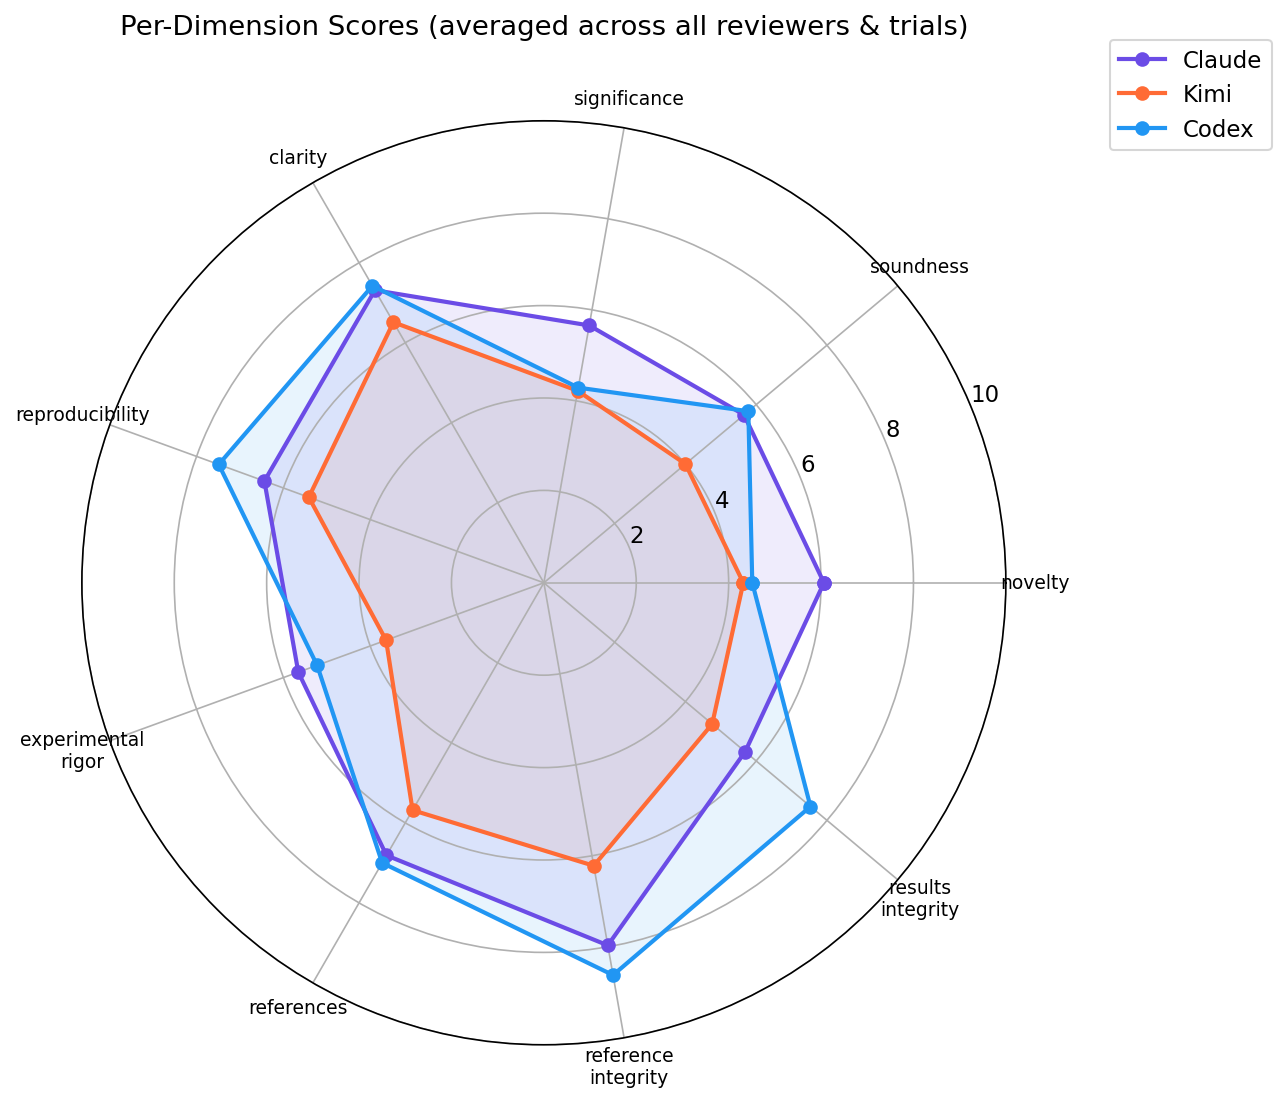
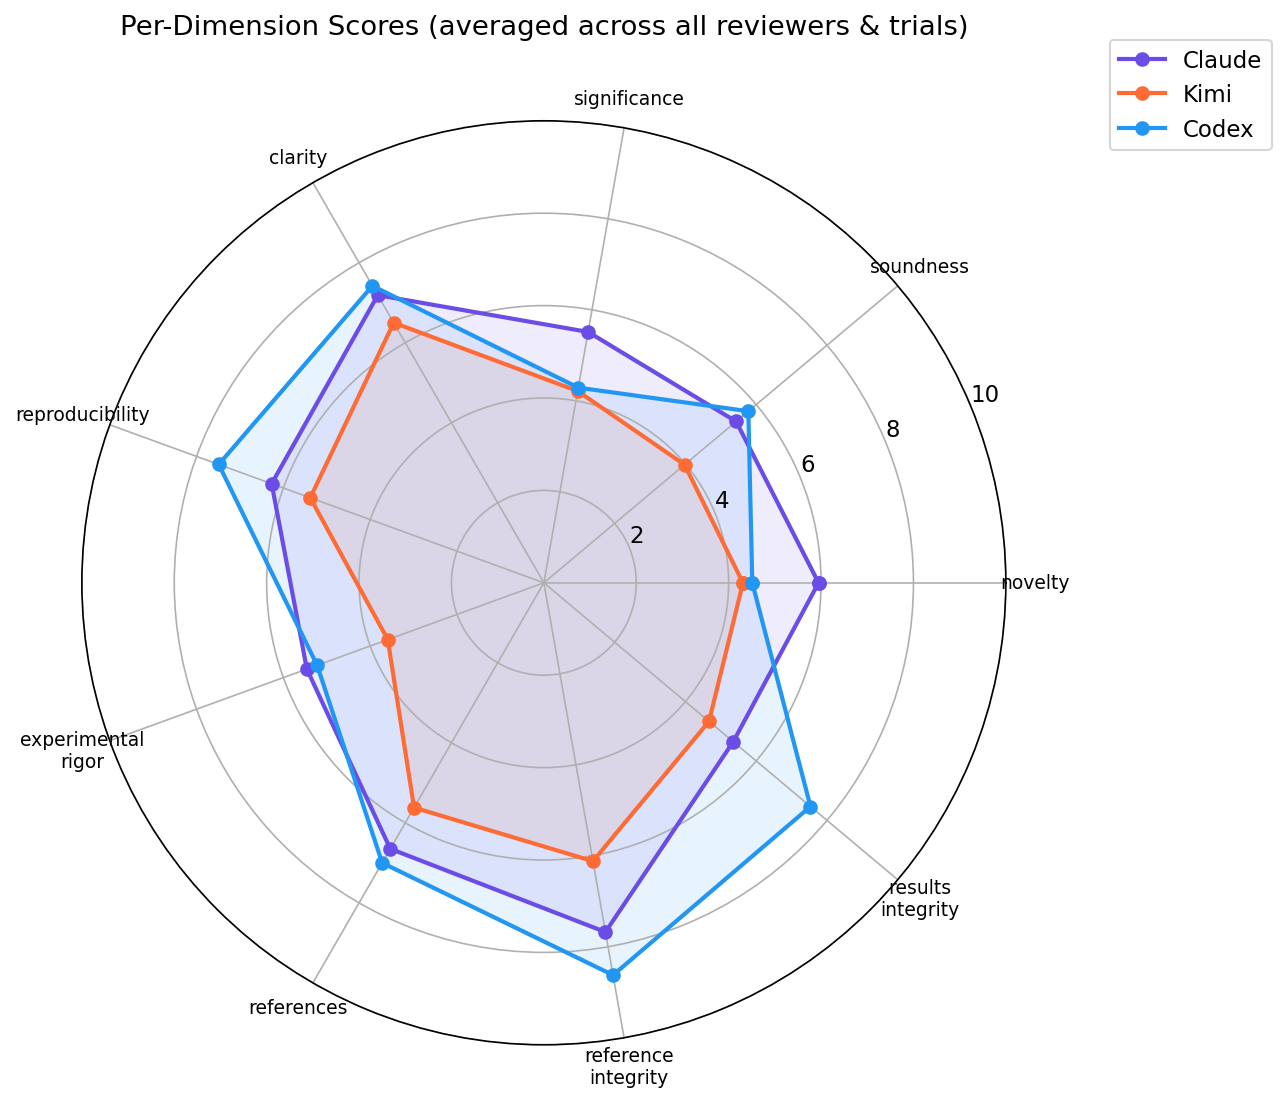
Complete all reviewer scores (45/45 × 3/3) and re-run analysis
Re-ran 6 missing reviews (5 Codex, 1 Claude) that failed during
original pipeline runs. All 45 trials now have exactly 3 reviewer
scores each. Updated reviews.json and tracker.json for affected trials.

Updated analysis with complete data:
- Claude: avg 4.73, Kimi: avg 3.69, Codex: avg 4.53
- All reviewer columns now have n=15 (was n=6-14 before)

diff --git a/scripts/rerun_missing_reviews.py b/scripts/rerun_missing_reviews.py
@@ -1,0 +1,125 @@
+#!/usr/bin/env python3
+"""Re-run missing reviewer scores for trials that have <3 reviews.
+
+Runs the missing reviewer agent, parses the result, updates reviews.json
+in the results/ dir, and updates tracker.json.
+"""
+
+import json
+import sys
+from pathlib import Path
+
+sys.path.insert(0, str(Path(__file__).parent.parent))
+
+from researcharena.stages.review import _run_cli_reviewer, _parse_review_from_output
+
+BASE = Path(__file__).parent.parent
+
+TASKS = [
+    # (agent, seed_dir, trial, output_prefix, reviewer_config)
+    ("claude", "causal_learning_cpu", "trial2", "claude_t2_causal_learning",
+     {"type": "codex", "name": "Codex", "model": "gpt-5.4", "review_timeout": 3600}),
+    ("claude", "causal_learning_cpu", "trial3", "claude_t3_causal_learning",
+     {"type": "claude", "name": "Claude Code", "model": "claude-opus-4-6", "review_timeout": 3600}),
+    ("claude", "compiler_optimization_cpu", "trial2", "claude_t2_compiler_optimization",
+     {"type": "codex", "name": "Codex", "model": "gpt-5.4", "review_timeout": 3600}),
+    ("claude", "data_integration_and_cleaning_cpu", "trial1", "claude_v5_data_integration_and_cleaning",
+     {"type": "codex", "name": "Codex", "model": "gpt-5.4", "review_timeout": 3600}),
+    ("claude", "data_integration_and_cleaning_cpu", "trial3", "claude_t3_data_integration_and_cleaning",
+     {"type": "codex", "name": "Codex", "model": "gpt-5.4", "review_timeout": 3600}),
+    ("kimi", "causal_learning_cpu", "trial3", "kimi_t3_causal_learning",
+     {"type": "codex", "name": "Codex", "model": "gpt-5.4", "review_timeout": 3600}),
+]
+
+
+def run_review(agent, seed_dir, trial, output_prefix, reviewer_cfg):
+    idea_dirs = sorted([
+        d for d in (BASE / "outputs" / output_prefix).iterdir()
+        if d.is_dir() and d.name.startswith("idea_") and not d.name.endswith("_review_logs")
+    ])
+    workspace = idea_dirs[-1]
+
+    print(f"\n=== {agent}/{seed_dir}/{trial}: {reviewer_cfg['name']} on {workspace.name} ===")
+
+    review_dict, result = _run_cli_reviewer(
+        agent_cfg=reviewer_cfg,
+        workspace=workspace,
+        venue="neurips",
+        docker_image="researcharena/agent-cpu:latest",
+        runtime="local",
+        domain="ml",
+        ref_feedback="",
+    )
+
+    # Try parsing from stdout if direct parse failed
+    if not review_dict and result and result.stdout:
+        review_dict = _parse_review_from_output(result.stdout)
+
+    if not review_dict:
+        print(f"  FAILED: no review produced")
+        return False
+
+    score = review_dict.get("overall_score")
+    decision = review_dict.get("decision")
+    print(f"  Score: {score}, Decision: {decision}")
+
+    # Update reviews.json in results
+    reviews_files = sorted((BASE / "results" / agent / seed_dir / trial).glob("code/idea_*/reviews.json"))
+    if not reviews_files:
+        print(f"  ERROR: no reviews.json found")
+        return False
+
+    reviews_file = reviews_files[-1]
+    reviews = json.loads(reviews_file.read_text())
+    reviews["reviews"].append({
+        "source": f"agent:{reviewer_cfg['name']}",
+        "overall_score": score,
+        "decision": decision,
+        "scores": review_dict.get("scores", {}),
+        "summary": review_dict.get("summary", ""),
+        "strengths": review_dict.get("strengths", []),
+        "weaknesses": review_dict.get("weaknesses", []),
+        "detailed_feedback": review_dict.get("detailed_feedback", ""),
+        "questions_for_authors": review_dict.get("questions_for_authors", []),
+        "integrity_check": review_dict.get("integrity_check", ""),
+    })
+    scores = [r["overall_score"] for r in reviews["reviews"] if r.get("overall_score") is not None]
+    reviews["avg_score"] = sum(scores) / len(scores) if scores else 0
+    reviews_file.write_text(json.dumps(reviews, indent=2))
+    print(f"  Updated reviews.json (avg={reviews['avg_score']:.2f})")
+
+    # Update tracker.json
+    tracker_file = BASE / "results" / agent / seed_dir / trial / "tracker" / "tracker.json"
+    if tracker_file.exists():
+        tracker = json.loads(tracker_file.read_text())
+        for action in tracker.get("actions", []):
+            if (action.get("stage") == "review"
+                and reviewer_cfg["name"] in action.get("action", "")
+                and action.get("outcome") == "failure"):
+                action["outcome"] = "success"
+                action["details"] = f"score={score}, decision={decision}"
+                break
+        tracker_file.write_text(json.dumps(tracker, indent=2))
+
+    return True
+
+
+def main():
+    success = 0
+    failed = 0
+    for task in TASKS:
+        try:
+            if run_review(*task):
+                success += 1
+            else:
+                failed += 1
+        except Exception as e:
+            print(f"  ERROR: {e}")
+            failed += 1
+
+    print(f"\n{'='*50}")
+    print(f"Done: {success} succeeded, {failed} failed")
+
+
+if __name__ == "__main__":
+    main()
